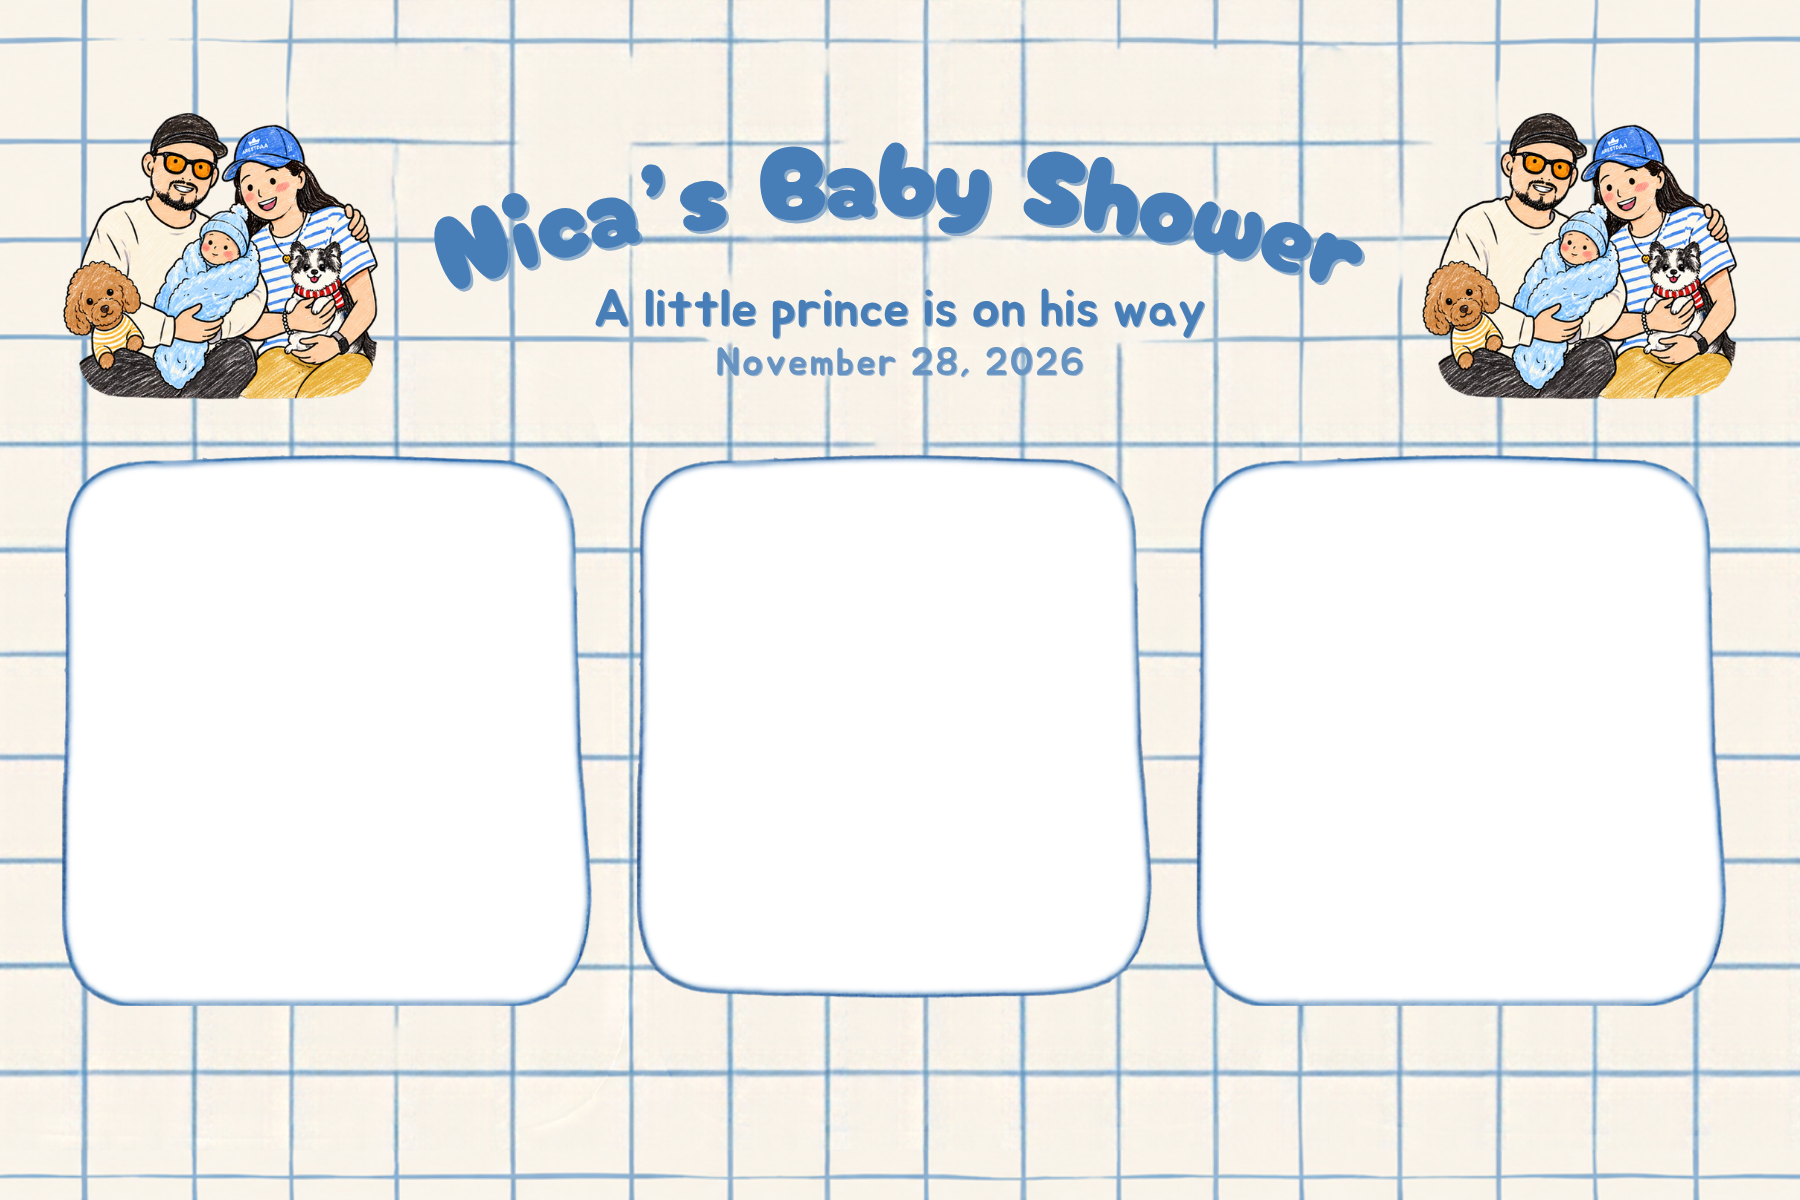
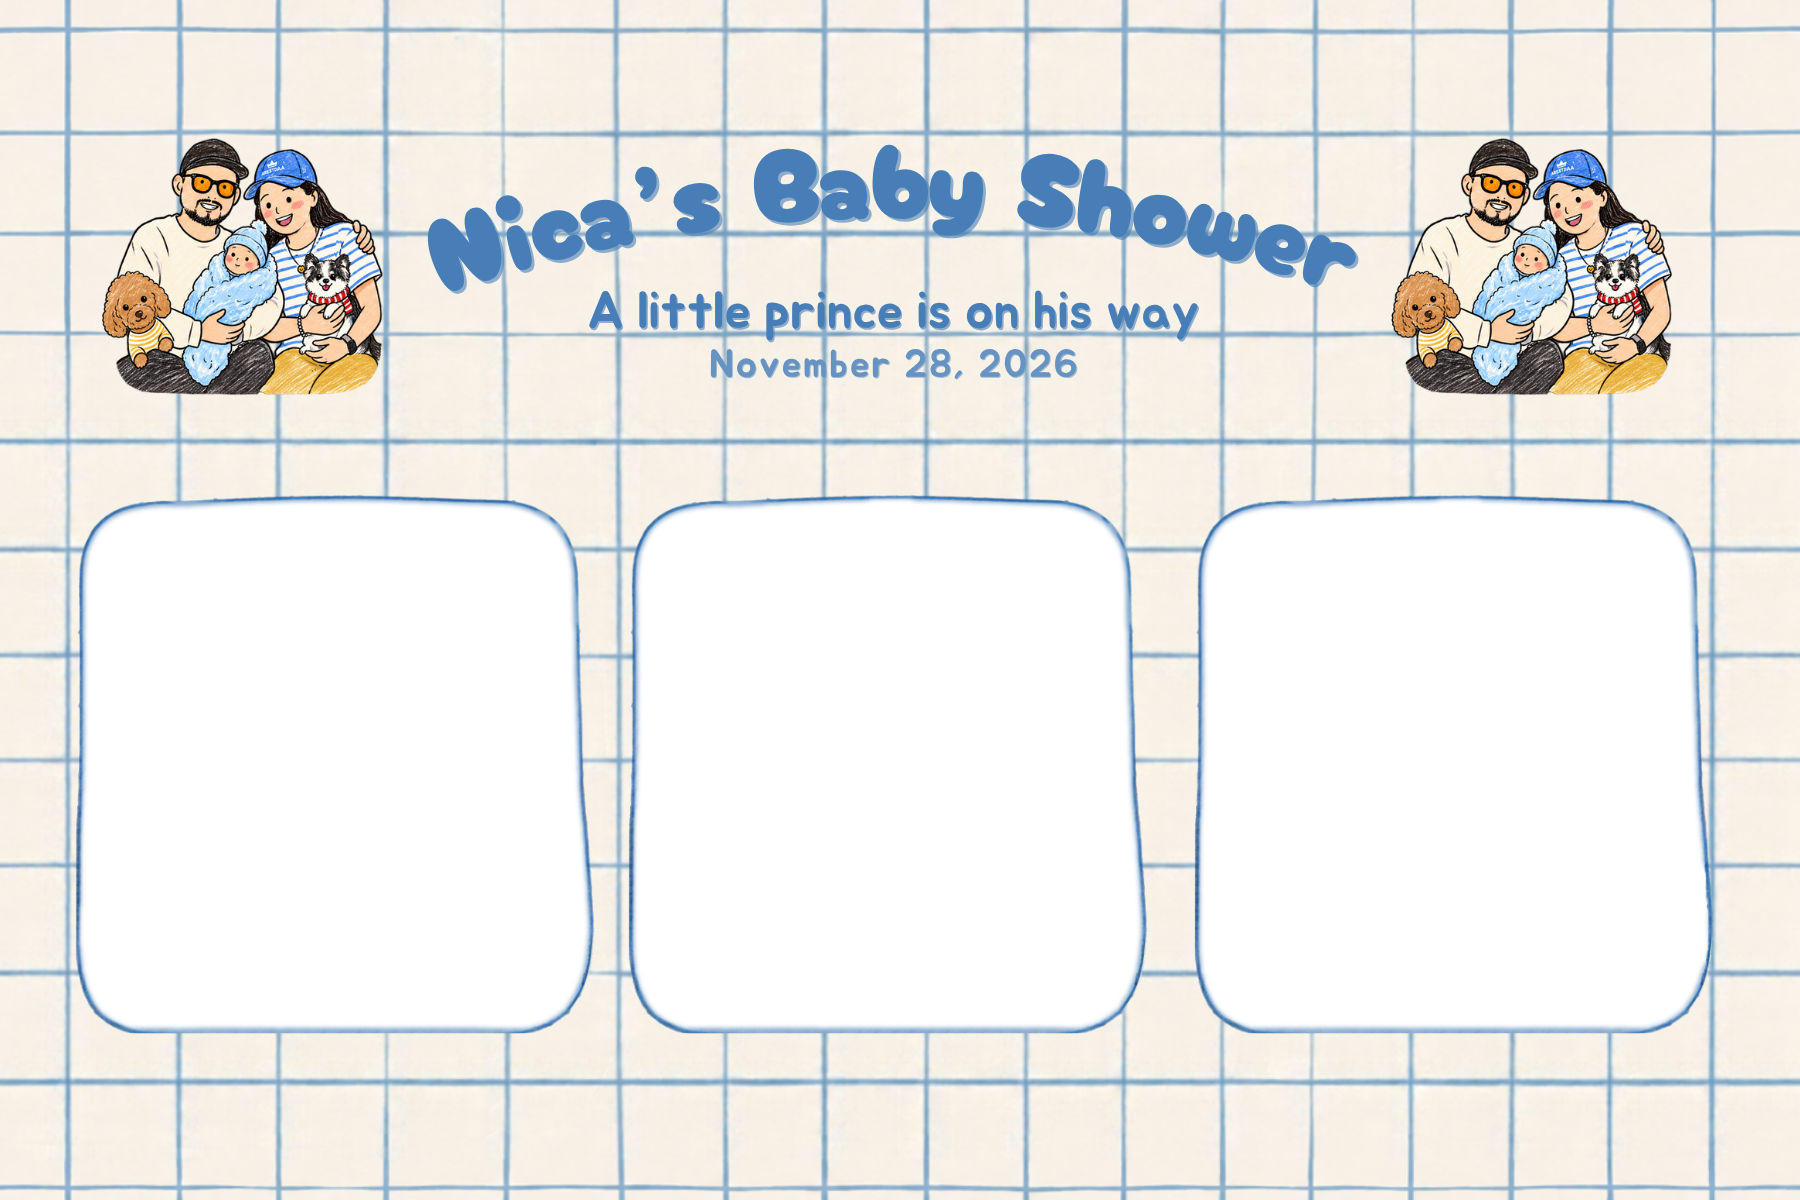
feat: add keyboard capture functionality and update test for enter key press

Changed region(s): [[0.0, 0.0, 1.0, 1.0]]

diff --git a/components/booth.tsx b/components/booth.tsx
@@ -57,6 +57,29 @@ export function Booth({ backgrounds: defaults }: { backgrounds: Backdrop[] }) {
 	const galleryVisible = useStore(store, (state) => state.galleryVisible);
 
 	useEffect(() => {
+		const captureOnEnter = (event: KeyboardEvent) => {
+			if (
+				menuOpen ||
+				event.key !== "Enter" ||
+				event.repeat ||
+				event.altKey ||
+				event.ctrlKey ||
+				event.metaKey ||
+				event.shiftKey ||
+				(event.target instanceof Element &&
+					event.target.closest(
+						"button, a, input, select, textarea, [contenteditable], [role=button], [role=link]",
+					))
+			)
+				return;
+			event.preventDefault();
+			startCountdown();
+		};
+		window.addEventListener("keydown", captureOnEnter);
+		return () => window.removeEventListener("keydown", captureOnEnter);
+	}, [menuOpen, startCountdown]);
+
+	useEffect(() => {
 		if (backdrops.isPending) return;
 		const { background } = store.getState();
 		const adminDefault = backgrounds.find((item) => item.isDefault);

diff --git a/tests/booth.spec.ts b/tests/booth.spec.ts
@@ -1686,7 +1686,11 @@ test("three-box frame shoots each box in turn, then reviews, retakes and saves o
 		.poll(() => boxColors(page))
 		.toEqual(["red|green", "empty|empty", "empty|empty"]);
 
-	await capture.click();
+	await page.evaluate(() => {
+		if (document.activeElement instanceof HTMLElement)
+			document.activeElement.blur();
+	});
+	await page.keyboard.press("Enter");
 	const progress = page.locator(".preview").getByRole("status");
 	await expect(progress).toHaveText("Photo 1 of 3");
 	for (const value of [5, 4, 3, 2, 1]) {
